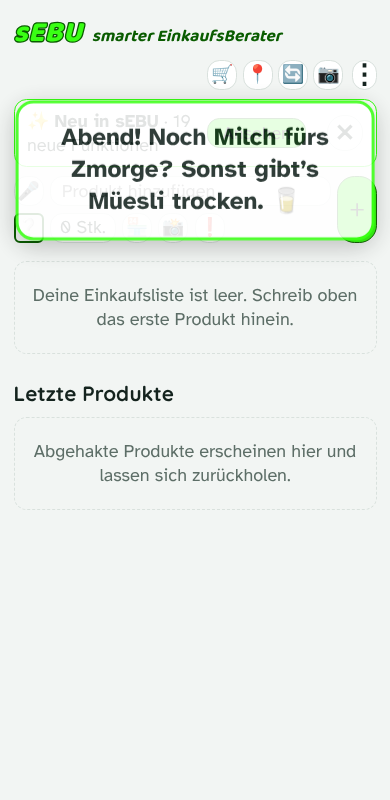
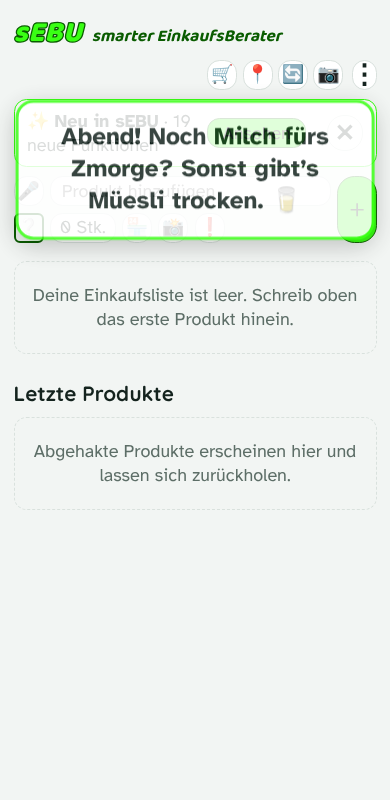
Laden wählen: Felder volle Breite
Claude-Session: https://claude.ai/code/session_01D8YzSZq49mBYGwQ71jG7sa

Changed region(s): [[0.0615, 0.125, 0.9538, 0.3125]]

diff --git a/index.html b/index.html
@@ -822,11 +822,11 @@ var storeAll=false;
 function storeEntries(){var o=[],seen={};function a(n,c,d){if(!n||seen[n])return;seen[n]=1;o.push({n:n,c:c||n,d:d})}
  S.mine.filter(function(m){return m.off!==true}).forEach(function(m){a(m.name,m.name)});near.slice(0,8).forEach(function(x){a(x.name,x.chain,x.d)});allCh().filter(chainOn).forEach(function(c){a(c,c)});noLocStores().forEach(function(n){a(n,n)});
  return o.sort(function(x,y){return x.n.localeCompare(y.n,'de')})}
-function shStore(){var h='<h2>'+t('Laden wählen')+'</h2><h3 id="newhere" style="margin-top:0">＋ '+t('Neuer Laden hier')+'</h3><p class="small mute">'+t('Stehst du im Laden? Name eintippen – sEBU speichert den Standort und erkennt den Laden künftig selbst.')+'</p><div class="seg"><input class="field" id="nsn" placeholder="'+t('Name, z. B. Metzgerei Müller')+'" style="flex:1"><button class="btn pri" data-a="storenew">📍 '+t('Speichern')+'</button></div>'
- +'<h3>🔎 '+t('Bestehenden Laden suchen')+'</h3><div class="seg"><input class="field" id="stq" placeholder="'+t('Suchen, z. B. Volg')+'" style="flex:1" autocomplete="off"><button class="btn'+(storeAll?' sel':'')+'" data-a="storeall">'+t(storeAll?'Weniger':'Alle anzeigen')+'</button></div><div id="stres" class="'+(storeAll?'all':'')+'">';
+function shStore(){var h='<h2>'+t('Laden wählen')+'</h2><h3 id="newhere" style="margin-top:0">＋ '+t('Neuer Laden hier')+'</h3><p class="small mute">'+t('Stehst du im Laden? Name eintippen – sEBU speichert den Standort und erkennt den Laden künftig selbst.')+'</p><div class="seg"><input class="field" id="nsn" placeholder="'+t('Name, z. B. Metzgerei Müller')+'" style="flex:1 1 100%"><button class="btn pri" data-a="storenew">📍 '+t('Speichern')+'</button></div>'
+ +'<h3>🔎 '+t('Bestehenden Laden suchen')+'</h3><div class="seg"><input class="field" id="stq" placeholder="'+t('Suchen, z. B. Volg')+'" style="flex:1 1 100%" autocomplete="off"><button class="btn'+(storeAll?' sel':'')+'" data-a="storeall">'+t(storeAll?'Weniger':'Alle anzeigen')+'</button></div><div id="stres" class="'+(storeAll?'all':'')+'">';
  var g={};storeEntries().forEach(function(e){var L=(e.n.charAt(0)||'#').toUpperCase();(g[L]=g[L]||[]).push(e)});
  Object.keys(g).sort(function(a,b){return a.localeCompare(b,'de')}).forEach(function(L){h+='<div class="abc"><b>'+esc(L)+'</b><div class="seg">'+g[L].map(function(e){return'<button class="btn" data-a="storeset" data-n="'+esc(e.n)+'" data-c="'+esc(e.c)+'"'+(e.d!=null?' data-d="'+e.d+'"':'')+'>'+esc(e.n)+(e.d!=null?' · '+e.d+' m':'')+'</button>'}).join('')+'</div></div>'});
- return h+'</div><p class="small mute" id="stnone" style="display:none">'+t('Nichts gefunden. Oben als neuen Laden speichern oder unten ohne Standort eintragen.')+'</p><div class="seg" style="margin-top:.6em"><input class="field" id="stn" placeholder="'+t('Anderer Laden (ohne Standort)')+'" style="flex:1"><button class="btn" data-a="storeown">OK</button></div><div class="seg" style="margin-top:.6em"><button class="btn" data-a="shclose">'+t('Schliessen')+'</button></div>'}
+ return h+'</div><p class="small mute" id="stnone" style="display:none">'+t('Nichts gefunden. Oben als neuen Laden speichern oder unten ohne Standort eintragen.')+'</p><div class="seg" style="margin-top:.6em"><input class="field" id="stn" placeholder="'+t('Anderer Laden (ohne Standort)')+'" style="flex:1 1 100%"><button class="btn" data-a="storeown">OK</button></div><div class="seg" style="margin-top:.6em"><button class="btn" data-a="shclose">'+t('Schliessen')+'</button></div>'}
 function stFilter(v){var q=norm(v||''),box=$('#stres'),any=0;if(!box)return;box.classList.toggle('q',!!q);
  $$('#stres .abc').forEach(function(g){var n=0;g.querySelectorAll('.btn').forEach(function(c){var ok=!q||(' '+norm(c.textContent).replace(/[^a-z0-9äöüéèàç]+/g,' ')).indexOf(' '+q)>-1;c.style.display=ok?'':'none';if(ok)n++});g.style.display=n?'':'none';any+=n});
  var no=$('#stnone');if(no)no.style.display=q&&!any?'':'none'}

diff --git a/docs/ENTSCHEIDUNGEN.md b/docs/ENTSCHEIDUNGEN.md
@@ -825,3 +825,4 @@ Stand heute: 1 gebaut; 2 teilweise (Aktionen, aber ohne echte Datenquelle); 3 te
 - Wählbar: Suche per Eingabe oder per Scrollen. Bei Eingabe ist auch das Feld für neue Geschäfte gleich sichtbar.
 - Präzisiert 26.11.: Keine Einstellung. Reihenfolge im Fenster «Laden wählen»: zuerst «＋ Neuer Laden hier», dann Suchfeld (sucht in allen Läden), dann Knopf «Alle anzeigen» → ganze Liste nach ABC, jeder Buchstabe neue Zeile.
 - **Umgesetzt am 26.11.:** «Laden wählen»: zuoberst «Neuer Laden hier», dann Suchfeld über alle Läden, Knopf «Alle anzeigen» für die Liste nach ABC (jeder Buchstabe eigene Zeile). In Führung und «Neu in sEBU» (n19).
+- 26.11.: «Laden wählen»: Eingabefelder über die ganze Breite, Knöpfe darunter – Platzhalter-Texte sind bei grosser Schrift ganz lesbar.
